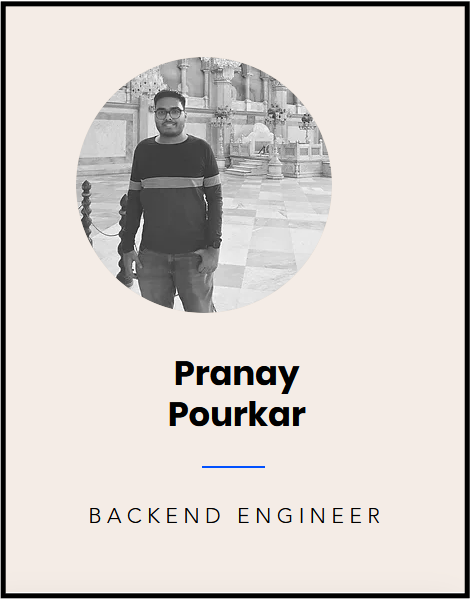
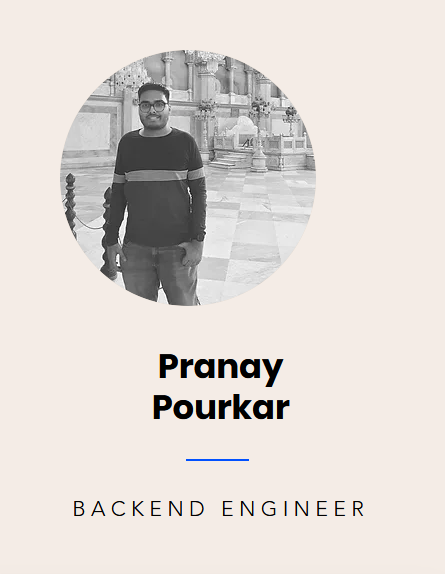
GITBOOK-626: No subject

diff --git a/README.md b/README.md
@@ -2,7 +2,7 @@
 icon: user-robot
 cover: >-
   https://images.unsplash.com/photo-1642499429179-8fde64e1bc11?crop=entropy&cs=srgb&fm=jpg&ixid=M3wxOTcwMjR8MHwxfHNlYXJjaHw0fHxqYXZhfGVufDB8fHx8MTcyODgxMDQwMnww&ixlib=rb-4.0.3&q=85
-coverY: 198
+coverY: 242
 layout:
   cover:
     visible: true
@@ -27,7 +27,11 @@ I am passionate about experimenting with new technologies, learning fresh concep
 
 As I continue this journey, I’ll be writing about various coding and technology concepts that intrigue me. Through these posts, I aim to not only solidify my own understanding but also provide valuable insights for others who are on a similar path of exploration and growth. Let's learn, share, and grow together!
 
-<figure><img src=".gitbook/assets/about.png" alt="" width="353"><figcaption></figcaption></figure>
+<div data-full-width="false">
+
+<figure><img src=".gitbook/assets/about.png" alt=""><figcaption></figcaption></figure>
+
+</div>
 
 
 
